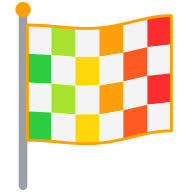
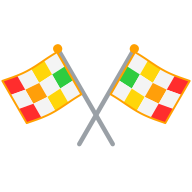
Nouvelles icônes : deux drapeaux à damier croisés en X
- onglet Race : dessin propre, deux drapeaux à damier croisés (un drapeau et
  son miroir par <use>), au trait comme les icônes Lucide voisines
- logo de l'application (icon.svg, favicon, icônes d'écran d'accueil) : même
  motif, carreaux aux couleurs des LED, contour orange ; grande étoffe et
  hampe courte, cadre de vue calculé d'après le dessin (make-icons.py)
- logo de la barre un peu plus grand (46 px, 38 px sur téléphone) sans
  changer la hauteur de la barre

diff --git a/index.html b/index.html
@@ -9,14 +9,14 @@
 <link rel="apple-touch-icon" href="img/apple-touch-icon.png">
 <script>try{var d=document.documentElement,t=localStorage.getItem("raceflags.theme");if(t==="dark"||t==="light")d.setAttribute("data-theme",t)}catch(e){}
 try{var l=localStorage.getItem("raceflags.lang"),n=navigator.languages&&navigator.languages.length?navigator.languages:[navigator.language];if(!l)l=String(n[0]||"en").toLowerCase().split("-")[0];d.lang=l;if(l!=="fr"){d.className+=" i18n-pending";setTimeout(function(){d.className=d.className.replace(" i18n-pending","")},2000)}}catch(e){}</script>
-<link rel="stylesheet" href="css/app.css?v=9a4ab597a6">
+<link rel="stylesheet" href="css/app.css?v=48d808d1b3">
 </head>
 <body>
 <header>
-  <h1><img class="brand-logo" src="img/icon.svg" alt="" width="38" height="38">WLED <span>Race Flags</span></h1>
+  <h1><img class="brand-logo" src="img/icon.svg" alt="" width="46" height="46">WLED <span>Race Flags</span></h1>
   <nav id="nav">
     <a href="#/wled" data-route="wled"><svg class="icon" viewBox="0 0 24 24" aria-hidden="true" fill="none" stroke="currentColor" stroke-width="2" stroke-linecap="round" stroke-linejoin="round"><path d="M15 14c.2-1 .7-1.7 1.5-2.5 1-.9 1.5-2.2 1.5-3.5A6 6 0 0 0 6 8c0 1 .2 2.2 1.5 3.5.7.7 1.3 1.5 1.5 2.5"/><path d="M9 18h6"/><path d="M10 22h4"/></svg>WLED</a>
-    <a href="#/race" data-route="race"><svg class="icon" viewBox="0 0 24 24" aria-hidden="true" fill="none" stroke="currentColor" stroke-width="2" stroke-linecap="round" stroke-linejoin="round"><path d="M5 21V3"/><rect x="5" y="4" width="14" height="9" stroke-width="1.5"/><rect x="5.0" y="4" width="3.5" height="3" fill="currentColor" stroke="none"/><rect x="12.0" y="4" width="3.5" height="3" fill="currentColor" stroke="none"/><rect x="8.5" y="7" width="3.5" height="3" fill="currentColor" stroke="none"/><rect x="15.5" y="7" width="3.5" height="3" fill="currentColor" stroke="none"/><rect x="5.0" y="10" width="3.5" height="3" fill="currentColor" stroke="none"/><rect x="12.0" y="10" width="3.5" height="3" fill="currentColor" stroke="none"/></svg>Race</a>
+    <a href="#/race" data-route="race"><svg class="icon" viewBox="0 0 24 24" aria-hidden="true" fill="none" stroke="currentColor" stroke-width="2" stroke-linecap="round" stroke-linejoin="round"><g id="race-flag"><g transform="translate(18 3) rotate(33.7)"><path d="M0 0V21.6"/><rect width="6.5" height="6" stroke-width="1.5"/><rect width="2.17" height="3" fill="currentColor" stroke="none"/><rect x="4.33" width="2.17" height="3" fill="currentColor" stroke="none"/><rect x="2.17" y="3" width="2.17" height="3" fill="currentColor" stroke="none"/></g></g><use href="#race-flag" transform="matrix(-1 0 0 1 24 0)"/></svg>Race</a>
     <a href="#/settings" data-route="settings"><svg class="icon" viewBox="0 0 24 24" aria-hidden="true" fill="none" stroke="currentColor" stroke-width="2" stroke-linecap="round" stroke-linejoin="round"><path d="M12.22 2h-.44a2 2 0 0 0-2 2v.18a2 2 0 0 1-1 1.73l-.43.25a2 2 0 0 1-2 0l-.15-.08a2 2 0 0 0-2.73.73l-.22.38a2 2 0 0 0 .73 2.73l.15.1a2 2 0 0 1 1 1.72v.51a2 2 0 0 1-1 1.74l-.15.09a2 2 0 0 0-.73 2.73l.22.38a2 2 0 0 0 2.73.73l.15-.08a2 2 0 0 1 2 0l.43.25a2 2 0 0 1 1 1.73V20a2 2 0 0 0 2 2h.44a2 2 0 0 0 2-2v-.18a2 2 0 0 1 1-1.73l.43-.25a2 2 0 0 1 2 0l.15.08a2 2 0 0 0 2.73-.73l.22-.39a2 2 0 0 0-.73-2.73l-.15-.08a2 2 0 0 1-1-1.74v-.5a2 2 0 0 1 1-1.74l.15-.09a2 2 0 0 0 .73-2.73l-.22-.38a2 2 0 0 0-2.73-.73l-.15.08a2 2 0 0 1-2 0l-.43-.25a2 2 0 0 1-1-1.73V4a2 2 0 0 0-2-2z"/><circle cx="12" cy="12" r="3"/></svg><span data-i18n="nav.settings">Réglages</span></a>
   </nav>
   <div class="header-end">
@@ -177,22 +177,22 @@ try{var l=localStorage.getItem("raceflags.lang"),n=navigator.languages&&navigato
     <pre id="log"></pre>
   </section>
 </main>
-<script defer src="js/core.js?v=9a4ab597a6"></script>
-<script defer src="js/i18n.js?v=9a4ab597a6"></script>
-<script defer src="js/i18n/fr.js?v=9a4ab597a6"></script>
-<script defer src="js/i18n/en.js?v=9a4ab597a6"></script>
-<script defer src="js/sources/nascar.js?v=9a4ab597a6"></script>
-<script defer src="js/sources/wec.js?v=9a4ab597a6"></script>
-<script defer src="js/sources/sro.js?v=9a4ab597a6"></script>
-<script defer src="js/sources/imsa.js?v=9a4ab597a6"></script>
-<script defer src="js/sources/replay.js?v=9a4ab597a6"></script>
-<script defer src="js/sync.js?v=9a4ab597a6"></script>
-<script defer src="js/wled.js?v=9a4ab597a6"></script>
-<script defer src="js/discovery.js?v=9a4ab597a6"></script>
-<script defer src="js/settings.js?v=9a4ab597a6"></script>
-<script defer src="js/recording.js?v=9a4ab597a6"></script>
-<script defer src="js/nascar-import.js?v=9a4ab597a6"></script>
-<script defer src="js/engine.js?v=9a4ab597a6"></script>
-<script defer src="js/ui.js?v=9a4ab597a6"></script>
+<script defer src="js/core.js?v=48d808d1b3"></script>
+<script defer src="js/i18n.js?v=48d808d1b3"></script>
+<script defer src="js/i18n/fr.js?v=48d808d1b3"></script>
+<script defer src="js/i18n/en.js?v=48d808d1b3"></script>
+<script defer src="js/sources/nascar.js?v=48d808d1b3"></script>
+<script defer src="js/sources/wec.js?v=48d808d1b3"></script>
+<script defer src="js/sources/sro.js?v=48d808d1b3"></script>
+<script defer src="js/sources/imsa.js?v=48d808d1b3"></script>
+<script defer src="js/sources/replay.js?v=48d808d1b3"></script>
+<script defer src="js/sync.js?v=48d808d1b3"></script>
+<script defer src="js/wled.js?v=48d808d1b3"></script>
+<script defer src="js/discovery.js?v=48d808d1b3"></script>
+<script defer src="js/settings.js?v=48d808d1b3"></script>
+<script defer src="js/recording.js?v=48d808d1b3"></script>
+<script defer src="js/nascar-import.js?v=48d808d1b3"></script>
+<script defer src="js/engine.js?v=48d808d1b3"></script>
+<script defer src="js/ui.js?v=48d808d1b3"></script>
 </body>
 </html>

diff --git a/css/app.css b/css/app.css
@@ -119,9 +119,9 @@ label:focus-within .name[data-tip]::after { display:block; top:auto; bottom:calc
 
 /* Logo de l'application à gauche de la barre du haut */
 h1 { display:flex; align-items:center; gap:10px; }
-.brand-logo { width:38px; height:38px; flex:none; }
+.brand-logo { width:46px; height:46px; flex:none; margin:-4px 0; }   /* dessin plus large que haut : un peu plus grand sans élargir la barre */
 h1 { white-space:nowrap; }
-@media (max-width:420px) { .brand-logo { width:32px; height:32px; } h1 { font-size:1rem; } }
+@media (max-width:420px) { .brand-logo { width:38px; height:38px; margin:-3px 0; } h1 { font-size:1rem; } }
 /* Menu des courses d'archive : large sur écran large, jamais plus large que l'écran sur téléphone */
 #arc-race { min-width:22em; max-width:100%; }
 #gtwc-series, #gtwc-race { max-width:100%; }    /* noms de série et de course longs : jamais plus large que la page */

diff --git a/tools/make-icons.py b/tools/make-icons.py
@@ -1,8 +1,8 @@
 #!/usr/bin/env python3
 """Génère les icônes de l'application (SVG et PNG) dans img/.
 
-Dessin original : un drapeau à damier qui flotte, dont les carreaux sombres prennent les couleurs des LED (du vert au rouge),
-sur fond sombre avec un accent orange. Aucun logo existant n'est repris. Dépendance : cairosvg (pip install cairosvg).
+Dessin original : deux drapeaux à damier croisés en X (comme l'icône de l'onglet Race), dont les carreaux sombres prennent les couleurs
+des LED (du vert au rouge), avec un accent orange. Aucun logo existant n'est repris. Dépendance : cairosvg (pip install cairosvg).
 
 Usage : python3 tools/make-icons.py
 Fichiers produits : favicon.svg, icon.svg, favicon-32.png, apple-touch-icon.png, icon-192.png, icon-512.png
@@ -43,43 +43,93 @@ def flag_squares(x0, y0, width, height, cols, rows, amplitude, wavelength, color
     return '\n    '.join(out)
 
 
+# Proportions : grande étoffe, hampe courte. Les hampes se croisent en (256, CROSS_Y), inclinées de ANGLE degrés ;
+# ABOVE et BELOW sont les longueurs de hampe au-dessus et au-dessous du croisement. Le cadre de vue est calculé d'après le dessin.
+ANGLE, CROSS_Y, ABOVE, BELOW = 30, 300, 230, 110
+CLOTH_W, CLOTH_H, POLE_W, FINIAL_R = 190, 150, 14, 14
+
+
+def pole_ends():
+    t = math.radians(ANGLE)
+    top = (256 + ABOVE * math.sin(t), CROSS_Y - ABOVE * math.cos(t))
+    bottom = (256 - BELOW * math.sin(t), CROSS_Y + BELOW * math.cos(t))
+    return top, bottom
+
+
+def crossed(flag):
+    """Deux drapeaux croisés en X. flag(L) dessine un drapeau hampe verticale : haut de la hampe en (0, 0), étoffe vers +x, longueur L.
+    Le drapeau de droite va du haut à droite au bas à gauche ; celui de gauche est son miroir, dessiné dessous."""
+    top, bottom = pole_ends()
+    dx, dy = bottom[0] - top[0], bottom[1] - top[1]
+    angle = math.degrees(math.atan2(-dx, dy))          # rotation qui envoie (0, 1) sur la direction de la hampe
+    one = '<g transform="translate(%.1f %.1f) rotate(%.2f)">%s</g>' % (top[0], top[1], angle, flag(math.hypot(dx, dy)))
+    return '<g transform="matrix(-1 0 0 1 512 0)">%s</g>\n  %s' % (one, one)
+
+
+def bounds(margin):
+    """Limites du dessin (les deux drapeaux, contour et pointe compris), élargies de margin : (x0, y0, x1, y1)."""
+    top, bottom = pole_ends()
+    a = math.atan2(-(bottom[0] - top[0]), bottom[1] - top[1])
+    c, s = math.cos(a), math.sin(a)
+    local = [(x, y) for x in (POLE_W / 2, POLE_W / 2 + CLOTH_W) for y in (-12, CLOTH_H + 12)]     # étoffe ondulée et contour
+    local += [(0, -6 - FINIAL_R), (POLE_W / 2, math.hypot(bottom[0] - top[0], bottom[1] - top[1]))]
+    pts = [(top[0] + x * c - y * s, top[1] + x * s + y * c) for x, y in local]
+    pts += [(512 - x, y) for x, y in pts]
+    xs, ys = [p[0] for p in pts], [p[1] for p in pts]
+    return min(xs) - margin, min(ys) - margin, max(xs) + margin, max(ys) + margin
+
+
+def square_box(margin):
+    x0, y0, x1, y1 = bounds(margin)
+    side = max(x1 - x0, y1 - y0)
+    cx, cy = (x0 + x1) / 2, (y0 + y1) / 2
+    return cx - side / 2, cy - side / 2, side
+
+
 def icon_svg(opaque=False):
     """Icône complète. Par défaut le fond est transparent et la vue est resserrée sur le dessin ; opaque=True ajoute un fond sombre plein
     (icône d'écran d'accueil iOS, dont le système arrondit les coins)."""
-    flag = flag_squares(114, 104, 300, 240, 6, 4, 20, 380, COLUMN_COLORS)
-    if opaque:
-        box, background, pole = '0 0 512 512', ('<defs><linearGradient id="bg" x1="0" y1="0" x2="0" y2="1"><stop offset="0" stop-color="%s"/>'
-                                                 '<stop offset="1" stop-color="%s"/></linearGradient></defs>\n  <rect width="512" height="512" fill="url(#bg)"/>' % (BG_TOP, BG_BOTTOM)), '#d6d6d6'
+    pole = '#d6d6d6' if opaque else POLE
+    colors = ['#2ecc40', '#ffd60a', '#ff9f0a', '#ff2d2d']      # quatre colonnes : du vert au rouge
+
+    def flag(length):
+        cloth = flag_squares(POLE_W / 2, 2, CLOTH_W, CLOTH_H, 4, 3, 10, 300, colors)
+        return ('<rect x="%g" y="0" width="%g" height="%.1f" rx="%g" fill="%s"/>' % (-POLE_W / 2, POLE_W, length, POLE_W / 2, pole) +
+                '<circle cx="0" cy="-6" r="%g" fill="%s"/>' % (FINIAL_R, AMBER) + '<g>%s</g>' % cloth)
+    drawing = crossed(flag)
+    x, y, side = square_box(4)
+    if opaque:          # fond plein 512 x 512, dessin réduit au centre : marge pour les coins arrondis par iOS
+        k = 512 * 0.8 / side
+        drawing = '<g transform="translate(256 256) scale(%.4f) translate(%.1f %.1f)">%s</g>' % (k, -(x + side / 2), -(y + side / 2), drawing)
+        box, background = '0 0 512 512', ('<defs><linearGradient id="bg" x1="0" y1="0" x2="0" y2="1"><stop offset="0" stop-color="%s"/>'
+                                          '<stop offset="1" stop-color="%s"/></linearGradient></defs>\n  <rect width="512" height="512" fill="url(#bg)"/>' % (BG_TOP, BG_BOTTOM))
     else:
-        box, background, pole = '57 52 400 400', '', POLE
+        box, background = '%.1f %.1f %.1f %.1f' % (x, y, side, side), ''
     return '''<svg xmlns="http://www.w3.org/2000/svg" width="512" height="512" viewBox="%(box)s">
   %(bg)s
-  <!-- hampe -->
-  <rect x="96" y="76" width="18" height="372" rx="9" fill="%(pole)s"/>
-  <circle cx="105" cy="72" r="16" fill="%(amber)s"/>
-  <!-- drapeau à damier : les carreaux sombres prennent les couleurs des LED -->
-  <g>
-    %(flag)s
-  </g>
+  <!-- deux drapeaux à damier croisés : les carreaux sombres prennent les couleurs des LED -->
+  %(drawing)s
 </svg>
-''' % dict(box=box, bg=background, pole=pole, amber=AMBER, flag=flag)
+''' % dict(box=box, bg=background, drawing=drawing)
 
 
 def favicon_svg():
-    """Version simplifiée pour 16 à 32 px : gros carreaux, trois couleurs, pas de détails fins."""
-    colors = ['#2ecc40', '#ffd60a', '#ff2d2d']
-    # Fond blanc sous le damier : seuls les carreaux colorés sont dessinés, ce qui évite les coutures sombres du lissage.
-    squares = ['<rect x="17" y="9" width="42" height="39" fill="%s"/>' % LIGHT]
-    for r in range(3):
-        for c in range(3):
-            if (r + c) % 2 == 1:
-                squares.append('<rect x="%d" y="%d" width="14" height="13" fill="%s"/>' % (17 + 14 * c, 9 + 13 * r, colors[c]))
-    return '''<svg xmlns="http://www.w3.org/2000/svg" width="64" height="64" viewBox="8 5 54 54">
-  <rect x="11" y="6" width="5" height="52" rx="2.5" fill="%(pole)s"/>
-  %(sq)s
-  <rect x="17" y="9" width="42" height="39" fill="none" stroke="%(amber)s" stroke-width="2.4"/>
+    """Version simplifiée pour 16 à 32 px : mêmes drapeaux croisés, gros carreaux (3 x 2), contour orange épais, hampe plus large."""
+    def flag(length):
+        w3 = CLOTH_W / 3.0
+        squares = ['<rect x="%g" y="2" width="%g" height="%g" fill="%s"/>' % (POLE_W / 2, CLOTH_W, CLOTH_H, LIGHT)]
+        colors = ['#2ecc40', '#ffd60a', '#ff2d2d']
+        for r in range(2):
+            for c in range(3):
+                if (r + c) % 2 == 0:
+                    squares.append('<rect x="%.1f" y="%.1f" width="%.1f" height="%.1f" fill="%s"/>' % (POLE_W / 2 + w3 * c, 2 + CLOTH_H / 2 * r, w3, CLOTH_H / 2, colors[c]))
+        return ('<rect x="-12" y="0" width="24" height="%.1f" rx="12" fill="%s"/>' % (length, POLE) + ''.join(squares) +
+                '<rect x="%g" y="2" width="%g" height="%g" fill="none" stroke="%s" stroke-width="18" stroke-linejoin="round"/>' % (POLE_W / 2, CLOTH_W, CLOTH_H, AMBER))
+    x, y, side = square_box(10)
+    return '''<svg xmlns="http://www.w3.org/2000/svg" width="64" height="64" viewBox="%(box)s">
+  %(drawing)s
 </svg>
-''' % dict(pole=POLE, sq='\n  '.join(squares), amber=AMBER)
+''' % dict(box='%.1f %.1f %.1f %.1f' % (x, y, side, side), drawing=crossed(flag))
 
 
 def write(name, content):

diff --git a/img/README.fr.md b/img/README.fr.md
@@ -25,6 +25,6 @@ Avant d'ajouter ou de remplacer un logo : vérifier la licence sur la page du fi
 
 ## Icônes de l'application
 
-`icon.svg`, `favicon.svg`, `favicon-32.png`, `apple-touch-icon.png`, `icon-192.png` et `icon-512.png` sont des dessins **originaux** : un drapeau à damier qui flotte, dont les carreaux sombres prennent les couleurs des LED du vert au rouge,
+`icon.svg`, `favicon.svg`, `favicon-32.png`, `apple-touch-icon.png`, `icon-192.png` et `icon-512.png` sont des dessins **originaux** : deux drapeaux à damier croisés en X (comme l'icône de l'onglet Race), dont les carreaux sombres prennent les couleurs des LED du vert au rouge,
 avec un contour orange. Les icônes ont un **fond transparent** (hampe gris moyen et contour orange pour rester lisibles sur fond clair comme sur fond sombre), sauf `apple-touch-icon.png`, volontairement opaque sur fond sombre : iOS remplit la transparence en noir. Ils ne reprennent aucun logo existant et ne sont pas soumis à une marque déposée. Ils sont générés par `tools/make-icons.py` (dépendance : `cairosvg`) :
 modifier les couleurs ou le dessin dans ce script, puis le relancer, plutôt que d'éditer les fichiers à la main.

diff --git a/img/README.md b/img/README.md
@@ -25,6 +25,6 @@ Before adding or replacing a logo: check the license on the file's Wikimedia Com
 
 ## Application icons
 
-`icon.svg`, `favicon.svg`, `favicon-32.png`, `apple-touch-icon.png`, `icon-192.png` and `icon-512.png` are **original** drawings: a waving chequered flag whose dark squares take the colors of the LEDs, from green to red,
+`icon.svg`, `favicon.svg`, `favicon-32.png`, `apple-touch-icon.png`, `icon-192.png` and `icon-512.png` are **original** drawings: two chequered flags crossed in an X (like the Race tab icon), whose dark squares take the colors of the LEDs, from green to red,
 with an orange outline. The icons have a **transparent background** (mid-gray pole and orange outline to stay readable on both light and dark backgrounds), except `apple-touch-icon.png`, deliberately opaque on a dark background: iOS fills transparency with black. They do not reuse any existing logo and are not subject to a trademark. They are generated by `tools/make-icons.py` (dependency: `cairosvg`):
 change the colors or the drawing in that script and rerun it, rather than editing the files by hand.
